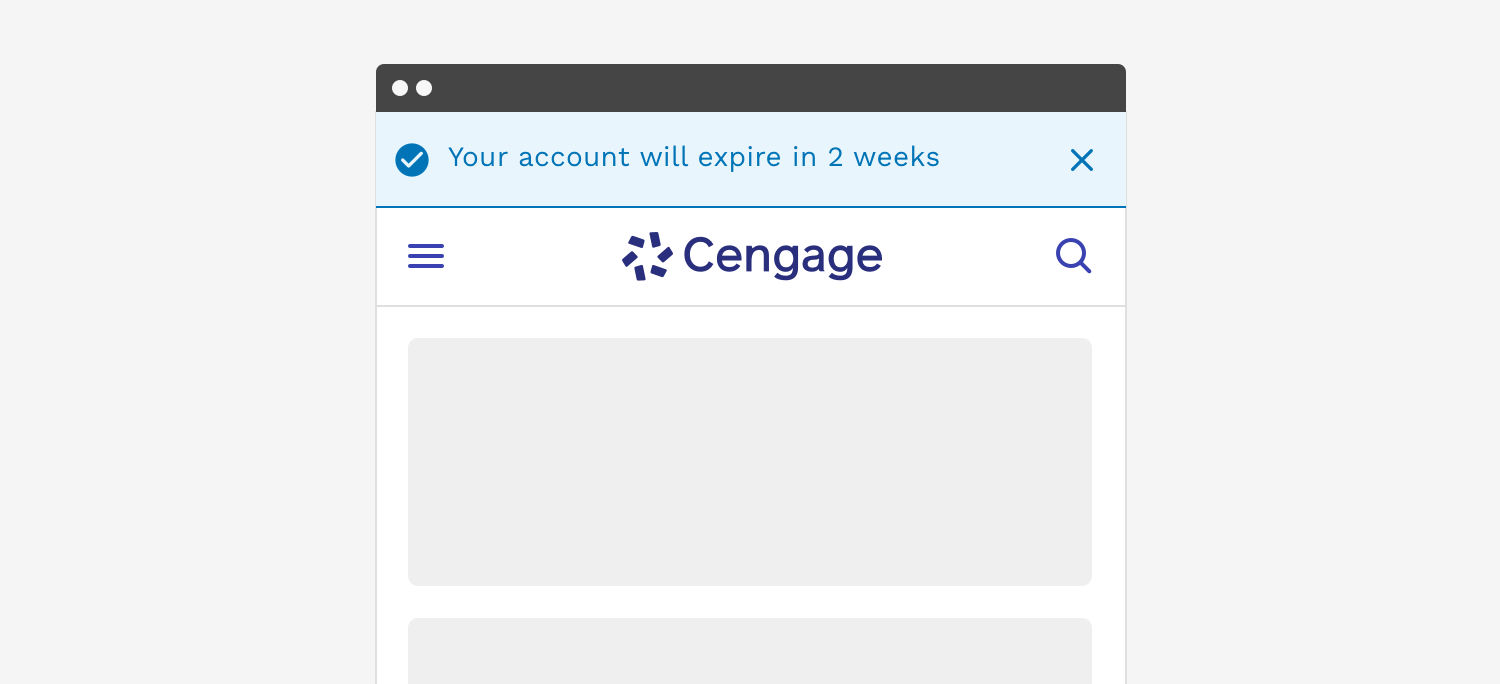
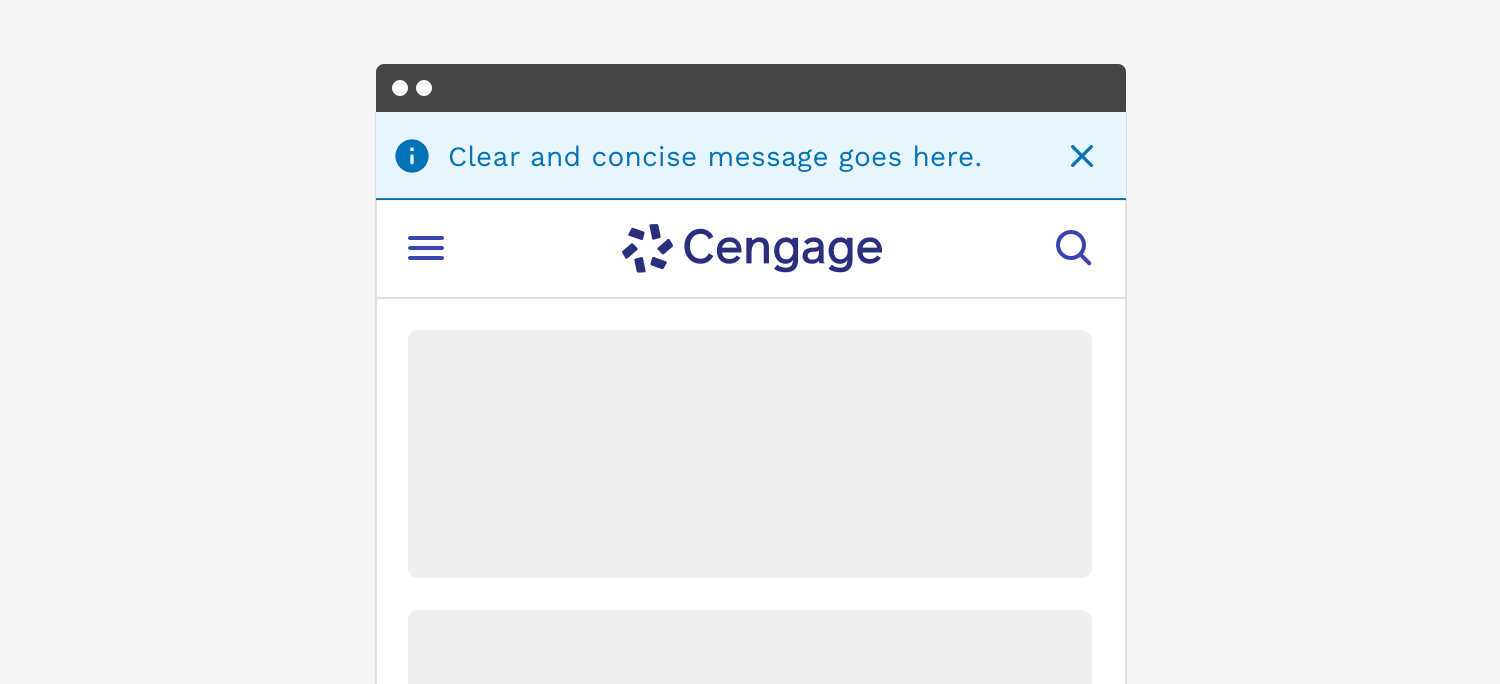
docs: updated alerts design guidelines (#747)
* docs: updated alerts design guidelines

Added section for inverse state

* Create beige-beds-work.md

diff --git a/.changeset/beige-beds-work.md b/.changeset/beige-beds-work.md
@@ -1,0 +1,5 @@
+---
+"react-magma-docs": major
+---
+
+docs: updated alerts design guidelines
